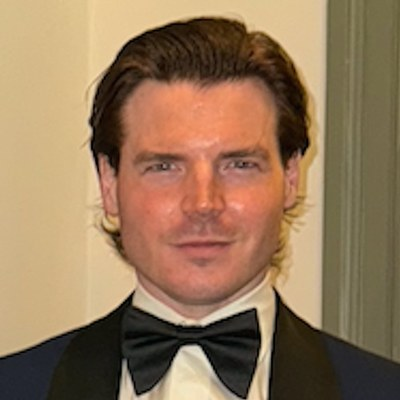
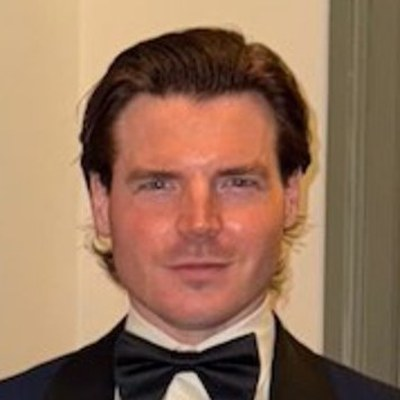
Headshot refresh: Antoin (re-crop), Jessica (new bubble), Joe (new file)
Three new email-scoped headshots, processed to 400x400 JPEGs at 0.85
quality. All three sit at 20-25 KB so they're cheap to load in
every email render.

* antoin_commane_bubble.jpg — overwritten in place. Already
  email-scoped (Privy Council uses antoin_dublin_formal.png
  separately), so the file swap propagates to all referenced
  surfaces (broadcasts, cart-reengage, post-signup, preview HTMLs)
  with no code change.

* jessica_commane_bubble.jpg — NEW file. Could not simply overwrite
  jessica_lily_commane.png because that filename is also referenced
  by privy-council.html (line 298), where DDW explicitly wants the
  current photo preserved. So a new bubble file with the convention-
  matching name and three code refs updated to point at it:
    - netlify/functions/lib/broadcast-email.js
    - netlify/functions/lib/post-signup-email.js
    - email-previews/08-jessica-gathering.html
  Privy Council page still uses jessica_lily_commane.png unchanged.

* joe_commane_bubble.jpg — NEW file for Joe ([email redacted]).
  No code change yet; the SQL backfill (next message) will point
  his members.avatar_url and his existing Austin gathering's
  host_avatar_url at the public URL of this asset.

diff --git a/email-previews/08-jessica-gathering.html b/email-previews/08-jessica-gathering.html
@@ -32,7 +32,7 @@
 <table role="presentation" cellpadding="0" cellspacing="0" border="0" style="margin:0 0 8px;width:100%">
   <tr>
     <td style="vertical-align:middle;padding-right:18px;width:84px">
-      <img src="https://www.ocomain.org/jessica_lily_commane.png" width="68" height="68" alt="Jessica-Lily Commane" style="display:block;width:68px;height:68px;border-radius:50%;object-fit:cover">
+      <img src="https://www.ocomain.org/jessica_commane_bubble.jpg" width="68" height="68" alt="Jessica-Lily Commane" style="display:block;width:68px;height:68px;border-radius:50%;object-fit:cover">
     </td>
     <td style="vertical-align:middle">
       <p style="font-family:'Georgia',serif;font-size:15px;color:#0C1A0C;line-height:1.3;margin:0 0 4px"><strong>Jessica-Lily Commane</strong></p>

diff --git a/netlify/functions/lib/broadcast-email.js b/netlify/functions/lib/broadcast-email.js
@@ -313,7 +313,7 @@ const VOICES = {
     replyTo: '[email redacted]',
     eyebrow: 'From the Keeper of the Seat',
     signature: () => signatureBlock({
-      avatar: 'jessica_lily_commane.png',
+      avatar: 'jessica_commane_bubble.jpg',
       name: 'Jessica-Lily Commane',
       role: 'Keeper of the Seat of Clan Ó Comáin',
       irish: 'Coimeádaí na Suíochán',

diff --git a/netlify/functions/lib/post-signup-email.js b/netlify/functions/lib/post-signup-email.js
@@ -279,7 +279,7 @@ function jessicaSignatureHtml() {
 <table role="presentation" cellpadding="0" cellspacing="0" border="0" style="margin:0 0 8px;width:100%">
   <tr>
     <td style="vertical-align:middle;padding-right:18px;width:84px">
-      <img src="${SITE}/jessica_lily_commane.png" width="68" height="68" alt="Jessica-Lily Commane" style="display:block;width:68px;height:68px;border-radius:50%;object-fit:cover">
+      <img src="${SITE}/jessica_commane_bubble.jpg" width="68" height="68" alt="Jessica-Lily Commane" style="display:block;width:68px;height:68px;border-radius:50%;object-fit:cover">
     </td>
     <td style="vertical-align:middle">
       <p style="font-family:'Georgia',serif;font-size:15px;color:#0C1A0C;line-height:1.3;margin:0 0 4px"><strong>Jessica-Lily Commane</strong></p>